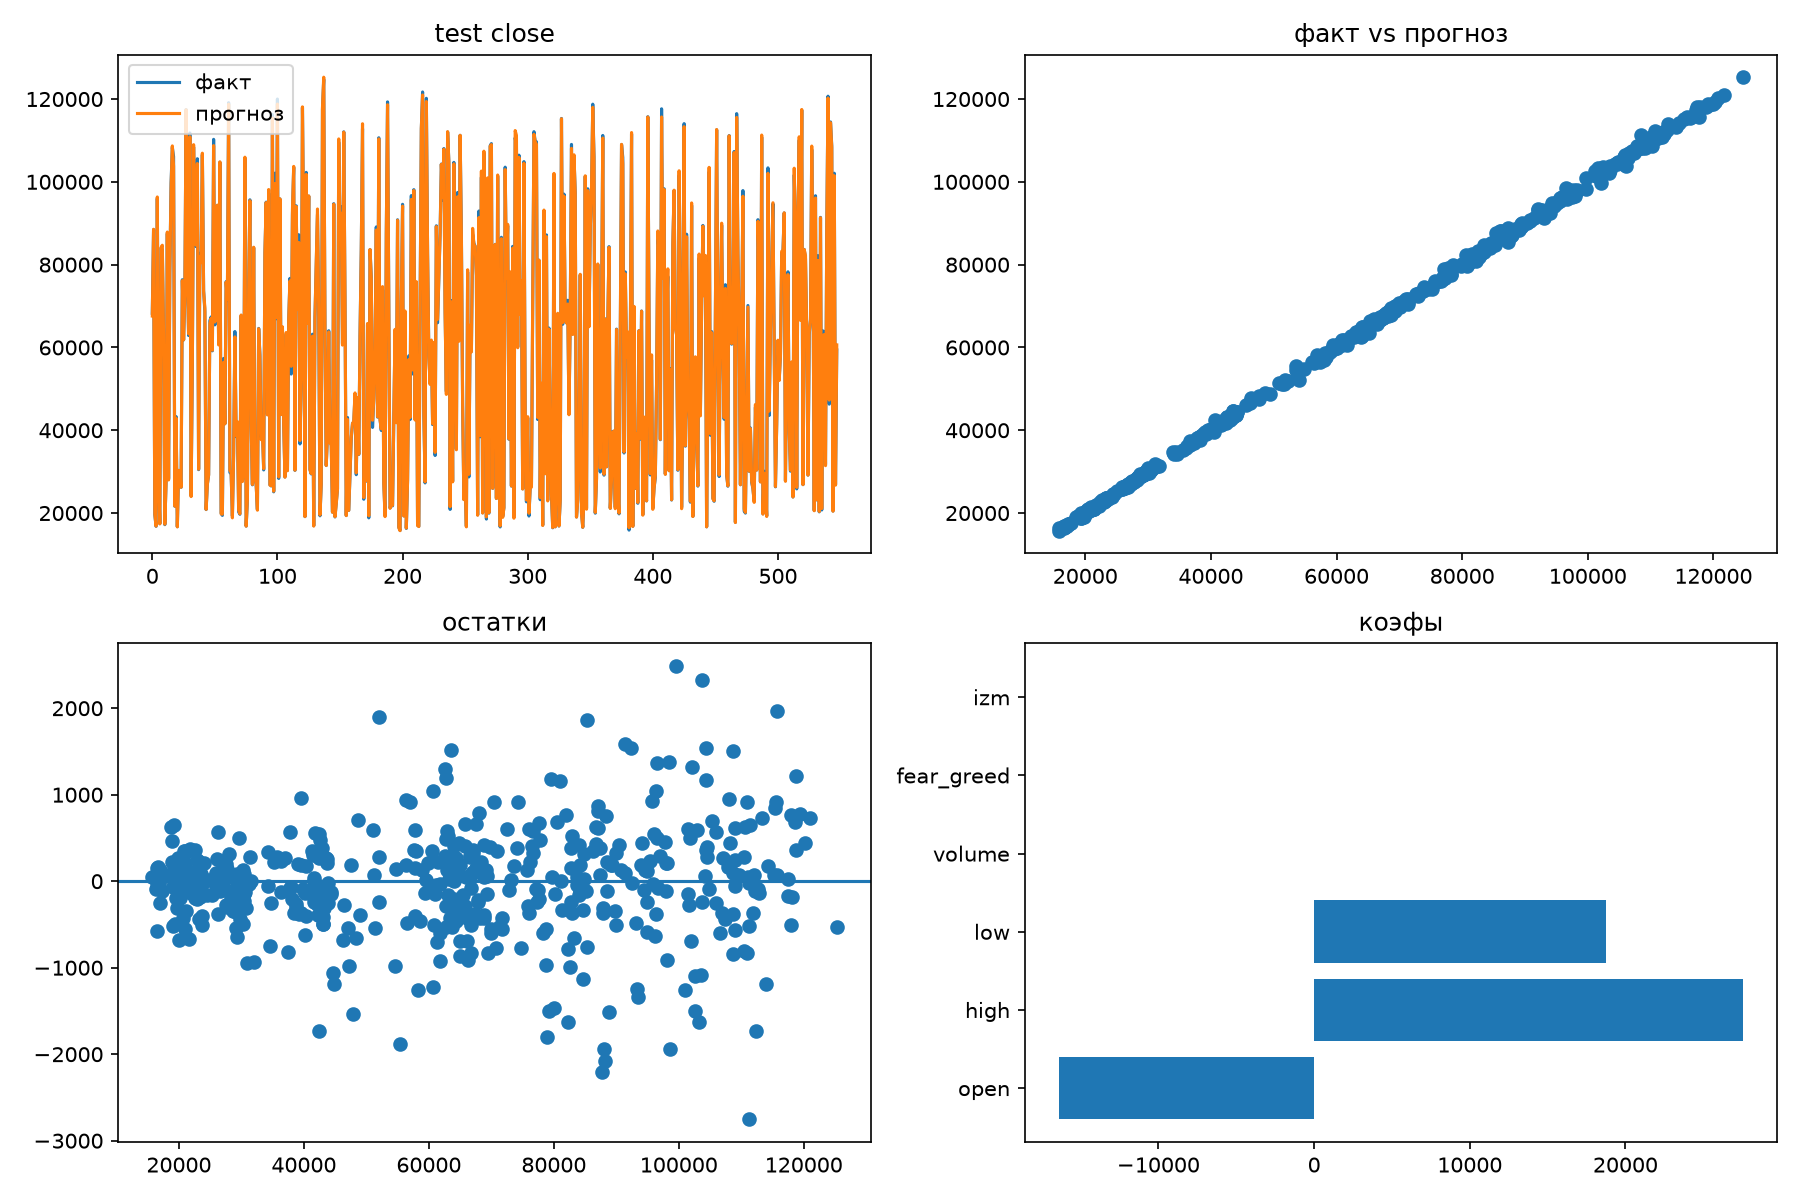
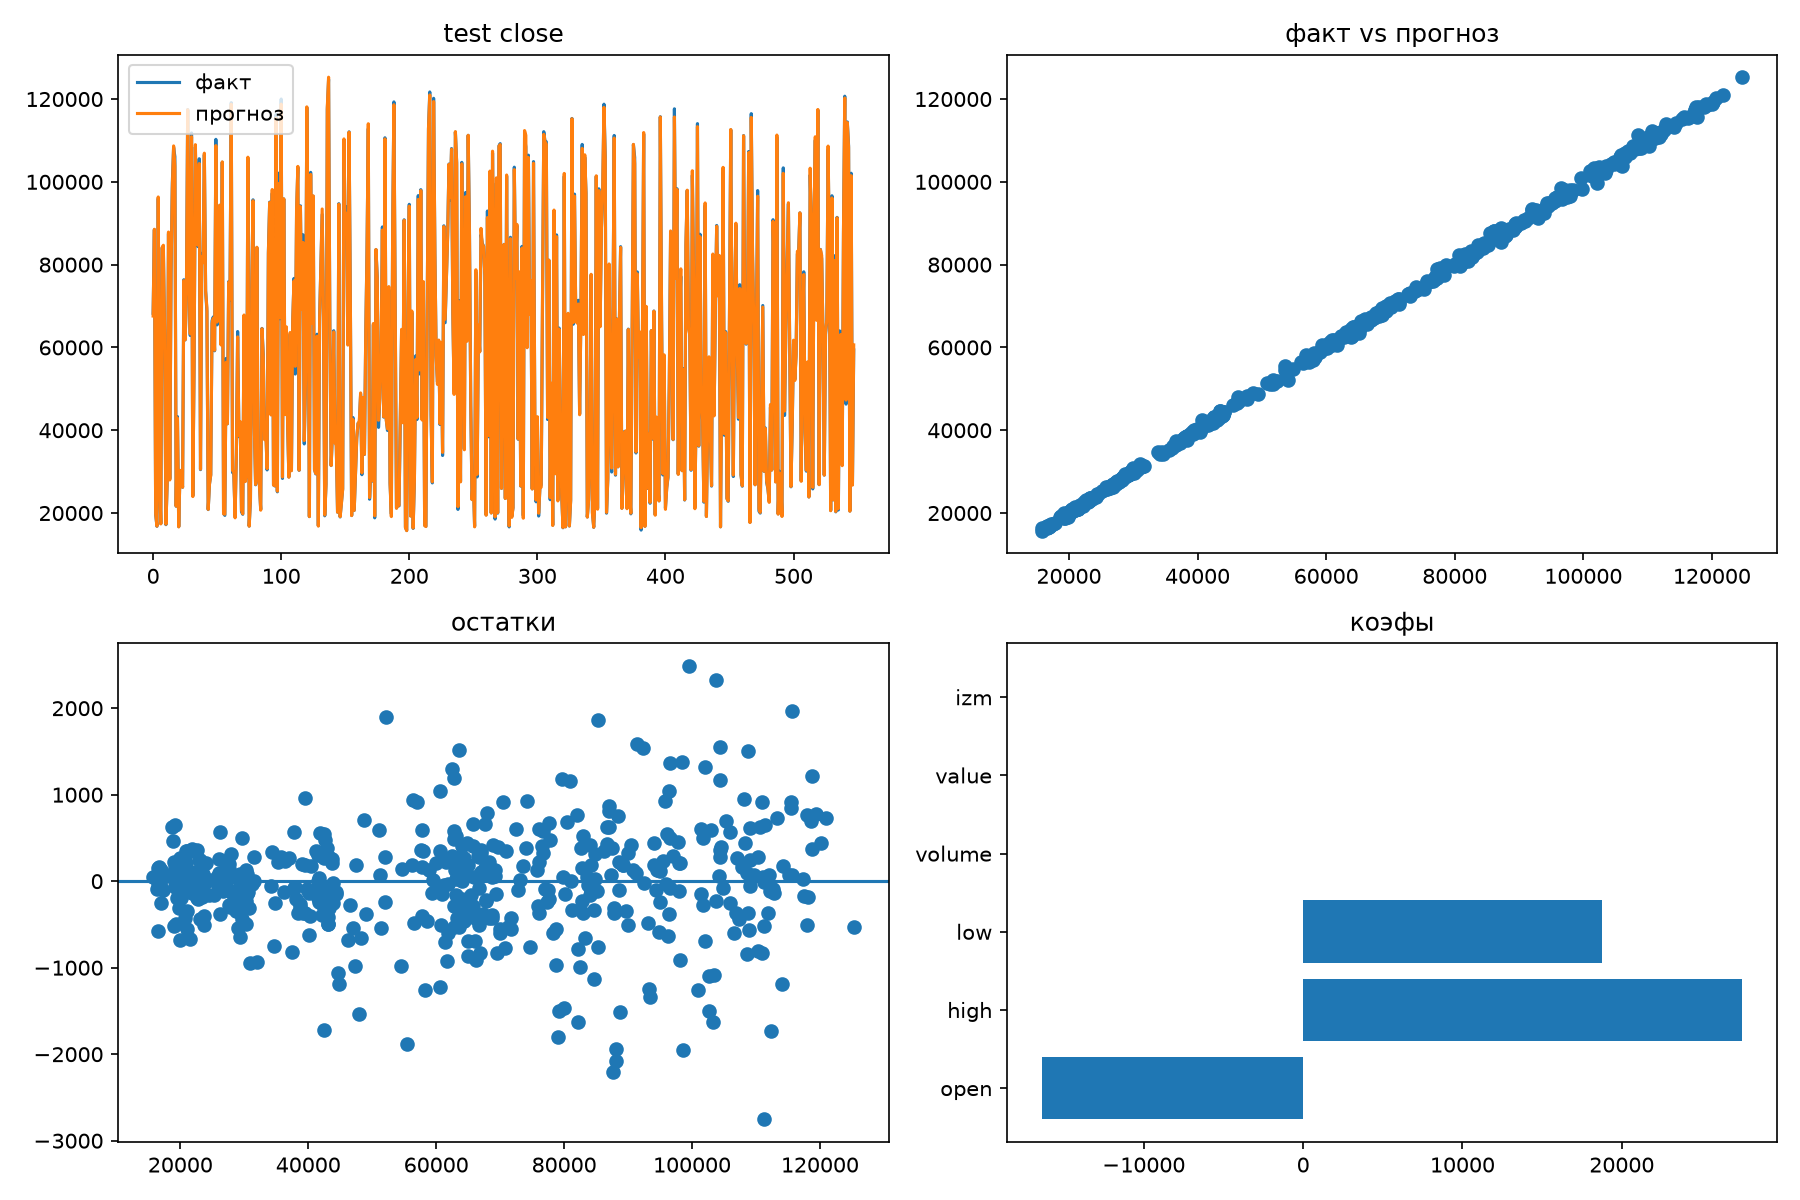
LLM: 5

diff --git a/LLM/task5/main.py b/LLM/task5/main.py
@@ -35,7 +35,7 @@ news = pd.DataFrame(stuff2["data"])
 page2.close()
 
 data["date"] = pd.to_datetime(data["date"], unit="s").dt.normalize()
-news["date"] = pd.to_datetime(news["timestamp"], unit="s").dt.normalize()
+news["date"] = pd.to_datetime(news["timestamp"].astype(int), unit="s").dt.normalize()
 news = news[["date", "value"]]
 
 df = data.merge(news, on="date", how="left")
@@ -64,24 +64,6 @@ print("test MAE", mean_absolute_error(y_test, pred), "RMSE", mean_squared_error(
 
 print("коэфы:", list(zip(x.columns, model.coef_)))
 print("intercept:", model.intercept_)
-print("open high low volume value izm")
-while True:
-    line = input(" > ").strip()
-    if not line:
-        break
-    try:
-        nums = [float(t.replace(",", ".")) for t in line.split()]
-    except ValueError:
-        continue
-    if len(nums) == 1 and nums[0].is_integer() and 0 <= int(nums[0]) < len(df):
-        i = int(nums[0])
-        row = StandardScaler().transform([x.iloc[i]])
-        print("настоящий close", float(y.iloc[i]))
-        print("прогноз", float(model.predict(row)[0]))
-    elif len(nums) == 6:
-        print("прогноз", float(model.predict(StandardScaler().transform([nums]))[0]))
-    else:
-        print("надо 6 чисел или номер")
 
 out = Path(__file__).resolve().parent
 fig, ax = plt.subplots(2, 2, figsize=(12, 8))
